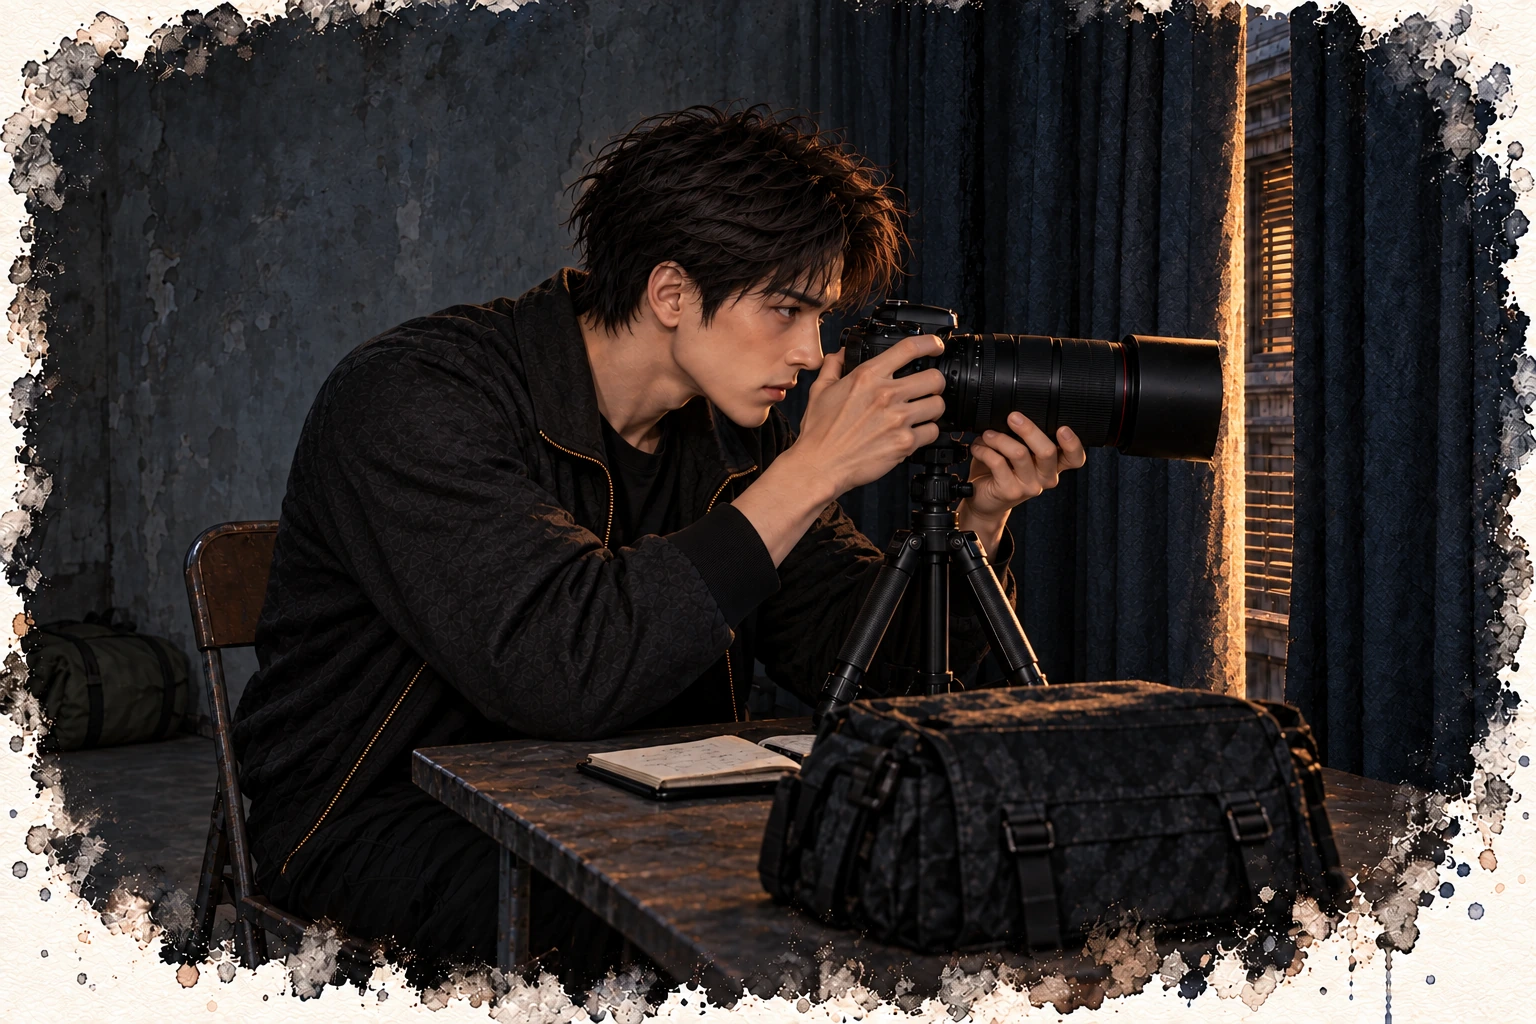
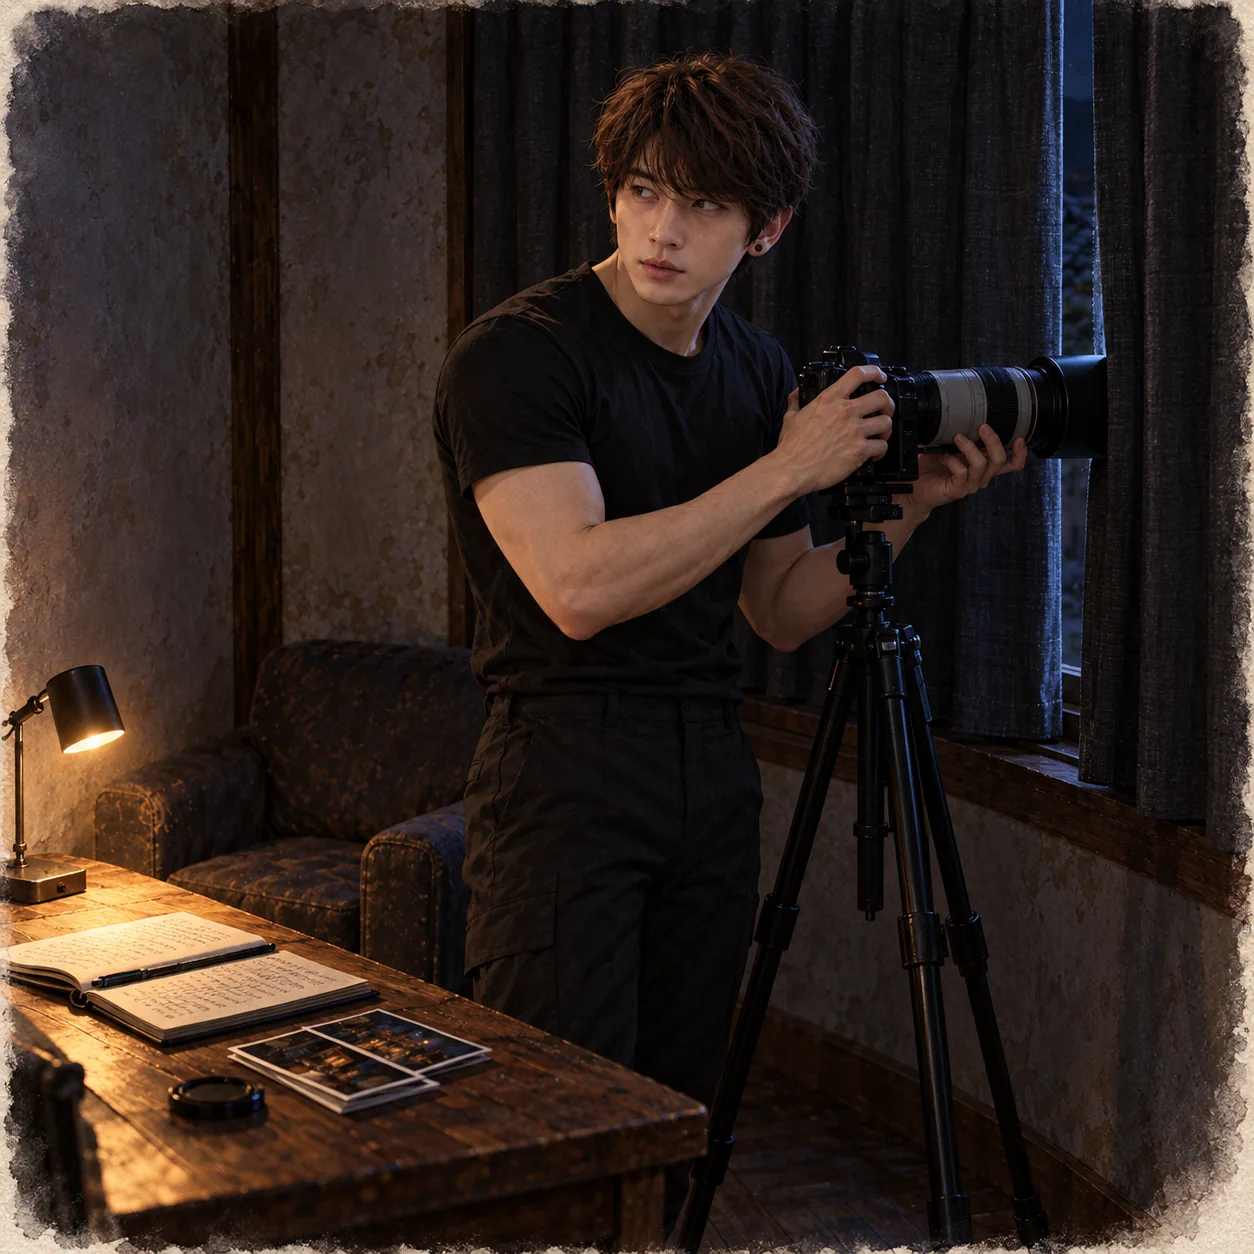
沒有招牌的酒吧 第一部第七章：替換陸曜、溫寧插圖
Claude-Session: https://claude.ai/code/session_01HUwf2ENyDuzceKaKYawxmj

diff --git a/novels/no-signboard-bar/chapter-07.html b/novels/no-signboard-bar/chapter-07.html
@@ -122,7 +122,7 @@
 <p>我就這樣縮著，睡著了。</p>
 </section>
 <section class="pov pov-wen" data-name="溫寧">
-<div class="pov-opening"><h2 class="pov-title" id="pov-2"><span>敘事視角</span>溫寧</h2><a class="pov-art" href="../../assets/novels/no-signboard-bar/chapter-07-wen-ning.webp" target="_blank" rel="noopener" aria-label="開啟溫寧插圖大圖"><img src="../../assets/novels/no-signboard-bar/chapter-07-wen-ning.webp" alt="溫寧在藥局低頭看處方，右手拿著電話聽筒，林棠僵在櫃檯前。" width="1536" height="1024" loading="lazy" decoding="async"><span class="pov-cap">因為我是藥師。</span></a><div class="pov-intro"><p>傍晚六點，林棠推門進來。</p>
+<div class="pov-opening"><h2 class="pov-title" id="pov-2"><span>敘事視角</span>溫寧</h2><a class="pov-art" href="../../assets/novels/no-signboard-bar/chapter-07-wen-ning.webp?v=20261013" target="_blank" rel="noopener" aria-label="開啟溫寧插圖大圖"><img src="../../assets/novels/no-signboard-bar/chapter-07-wen-ning.webp?v=20261013" alt="藥局櫃檯，溫寧拿著電話撥給林棠的醫院門診，林棠戴著帽子站在櫃檯前，整個人僵住看著她。" width="1254" height="1254" loading="lazy" decoding="async"><span class="pov-cap">因為我是藥師。</span></a><div class="pov-intro"><p>傍晚六點，林棠推門進來。</p>
 <p>她把藥袋放在櫃檯上，裡面是醫院開的處方。鐵劑，胃藥。</p>
 <p>我看著那盒鐵劑。</p></div></div>
 <p>一個多禮拜前，我才從江澈手上，把一模一樣的東西拿走。他不能補，補了會傷器官。現在，同一個牌子的鐵劑，我要親手交給另一個人，因為她不補，會出事。</p>
@@ -182,7 +182,7 @@
 <p>我記住了。</p>
 </section>
 <section class="pov pov-lu" data-name="陸曜">
-<div class="pov-opening"><h2 class="pov-title" id="pov-3"><span>敘事視角</span>陸曜</h2><a class="pov-art" href="../../assets/novels/no-signboard-bar/chapter-07-lu-yao.webp" target="_blank" rel="noopener" aria-label="開啟陸曜插圖大圖"><img src="../../assets/novels/no-signboard-bar/chapter-07-lu-yao.webp" alt="陸曜穿黑外套坐在舊房間裡，操作腳架上的長鏡頭，後方放著綠色睡袋。" width="1536" height="1024" loading="lazy" decoding="async"><span class="pov-cap">好啊，那就比誰比較能等。</span></a><div class="pov-intro"><p>昨晚睡了五個小時。</p>
+<div class="pov-opening"><h2 class="pov-title" id="pov-3"><span>敘事視角</span>陸曜</h2><a class="pov-art" href="../../assets/novels/no-signboard-bar/chapter-07-lu-yao.webp?v=20261013" target="_blank" rel="noopener" aria-label="開啟陸曜插圖大圖"><img src="../../assets/novels/no-signboard-bar/chapter-07-lu-yao.webp?v=20261013" alt="對面三樓的空房，陸曜站在拉開十公分的窗簾邊，長鏡頭架在腳架上對著巷口，回頭警覺地看向身後；桌上攤著筆記本和照片。" width="1254" height="1254" loading="lazy" decoding="async"><span class="pov-cap">好啊，那就比誰比較能等。</span></a><div class="pov-intro"><p>昨晚睡了五個小時。</p>
 <p>醒來的時候，我以為手錶壞了。</p>
 <p>五個小時。我上一次睡這麼久，大概還在念書，還相信教官說的每一句話。</p></div></div>
 <p>神經內科的醫生開了一種預防的藥，每天睡前吃。他說不會馬上見效，要吃幾週才看得出差別。他還說了一大串睡眠衛生，叫我睡前不要看螢幕，不要喝咖啡，不要想工作。</p>
